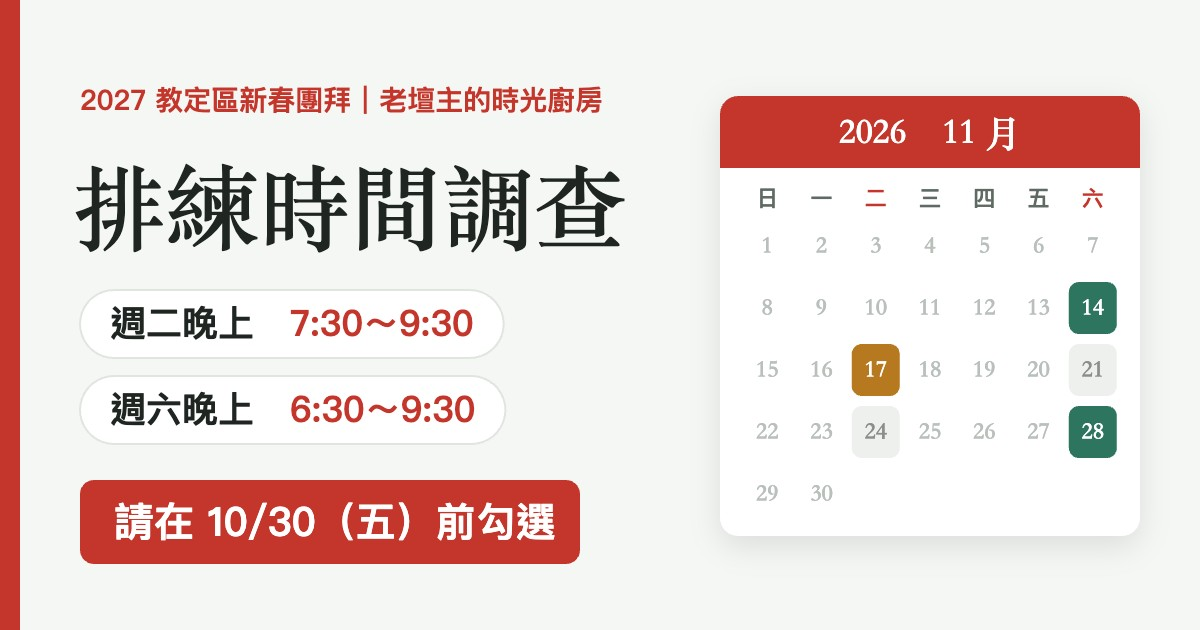
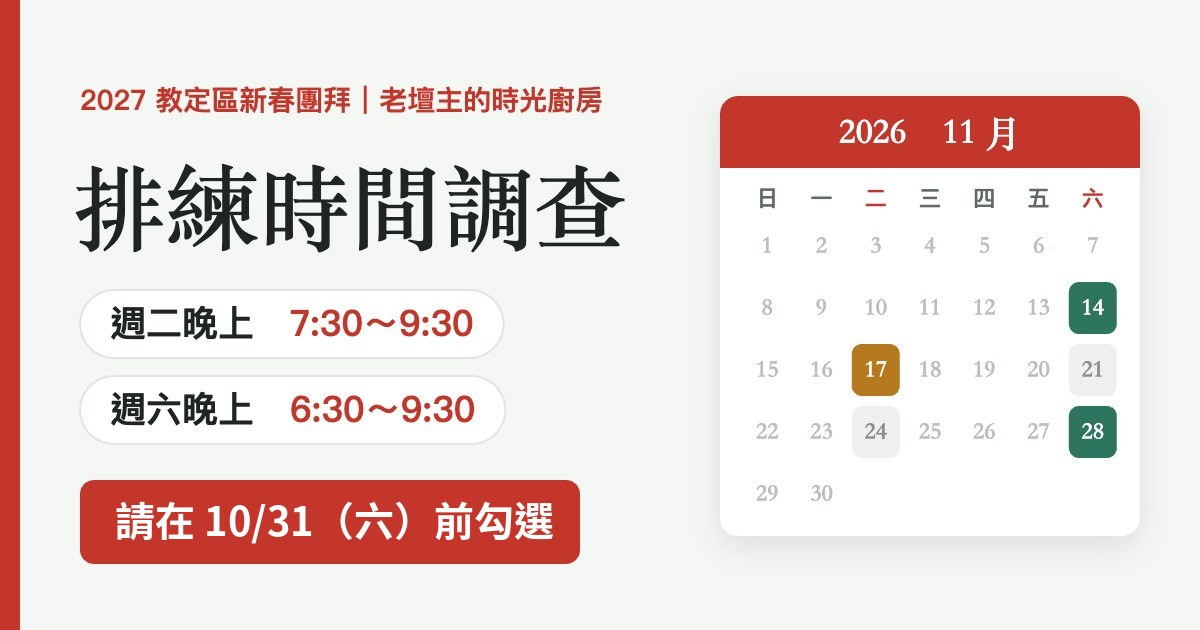
Rehearsal survey: OG image deadline 10/31

Changed region(s): [[0.0925, 0.7841, 0.4625, 0.8746]]

diff --git a/rehearsal.html b/rehearsal.html
@@ -10,8 +10,8 @@
 <meta property="og:url" content="https://greenmail1011.github.io/2027-new-year/rehearsal.html">
 <meta property="og:title" content="排練時間調查｜2027 新春團拜">
 <meta property="og:description" content="請在 10/31（六）前勾選可以來排練的日期：週二晚上 7:30～9:30、週六晚上 6:30～9:30。">
-<meta property="og:image" content="https://greenmail1011.github.io/2027-new-year/rehearsal-og.jpg">
-<meta property="og:image:secure_url" content="https://greenmail1011.github.io/2027-new-year/rehearsal-og.jpg">
+<meta property="og:image" content="https://greenmail1011.github.io/2027-new-year/rehearsal-og.jpg?v=1031">
+<meta property="og:image:secure_url" content="https://greenmail1011.github.io/2027-new-year/rehearsal-og.jpg?v=1031">
 <meta property="og:image:type" content="image/jpeg">
 <meta property="og:image:width" content="1200">
 <meta property="og:image:height" content="630">
@@ -19,7 +19,7 @@
 <meta name="twitter:card" content="summary_large_image">
 <meta name="twitter:title" content="排練時間調查｜2027 新春團拜">
 <meta name="twitter:description" content="請在 10/31（六）前勾選可以來排練的日期：週二晚上 7:30～9:30、週六晚上 6:30～9:30。">
-<meta name="twitter:image" content="https://greenmail1011.github.io/2027-new-year/rehearsal-og.jpg">
+<meta name="twitter:image" content="https://greenmail1011.github.io/2027-new-year/rehearsal-og.jpg?v=1031">
 <style>:root{padding-top:env(safe-area-inset-top,0px);padding-bottom:env(safe-area-inset-bottom,0px)}body{margin:0}img{max-width:100%}[hidden]{display:none!important}</style>
 <title>新春團拜排練調查</title>
 <meta name="claude:viewport-fit-sides" content="cover">
